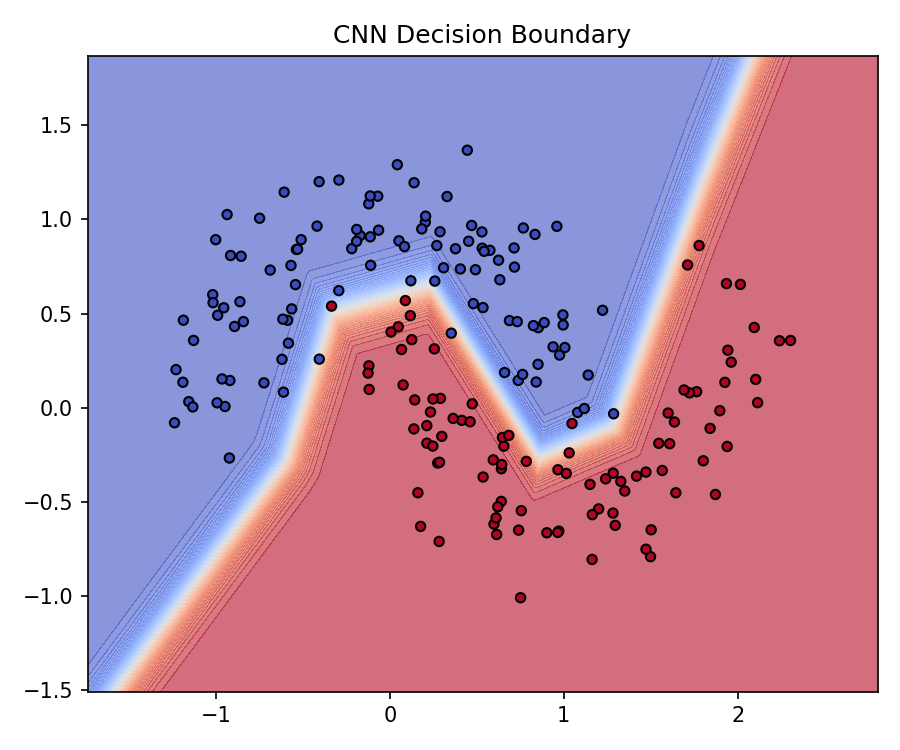
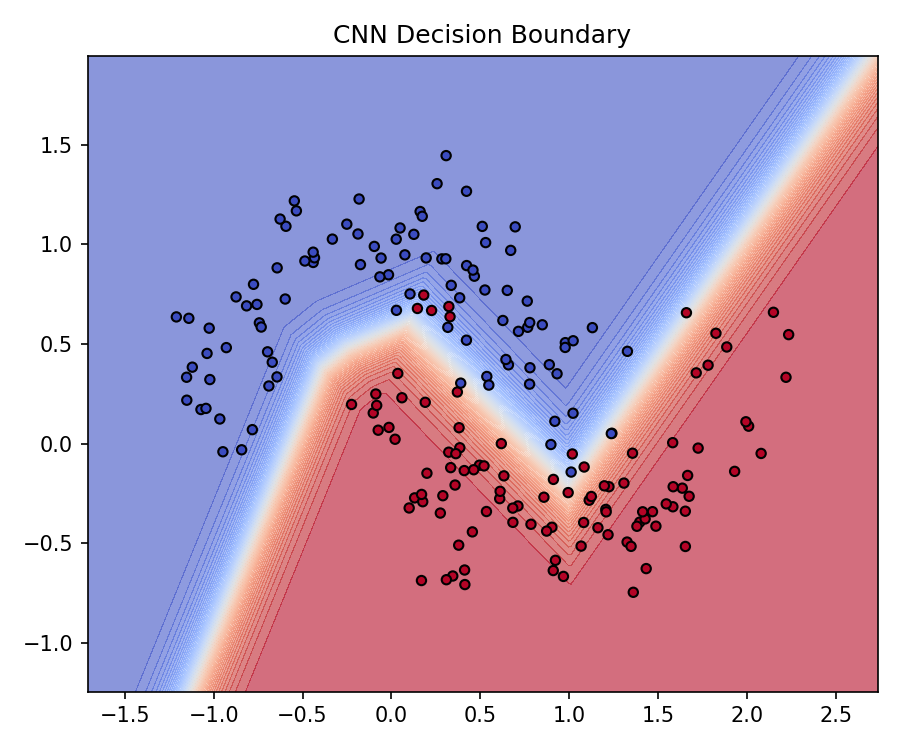
added seed while training

diff --git a/train.py b/train.py
@@ -10,14 +10,28 @@ from cnn_model import CNN
 device = torch.device("cuda" if torch.cuda.is_available() else "cpu")
 
 
-def train(model_type="mlp"):
+def set_seed(seed=42):
+    import random
+    import numpy as np
+    import torch
+
+    random.seed(seed)
+    np.random.seed(seed)
+    torch.manual_seed(seed)
+    torch.cuda.manual_seed_all(seed)
+
+    torch.backends.cudnn.deterministic = True
+    torch.backends.cudnn.benchmark = False
+
+
+def train(model_type="mlp", seed=42):
+    set_seed(seed)
+
     X_train, X_val, y_train, y_val = generate_dataset()
 
-    # Move data to GPU / CPU
     X_train, X_val = X_train.to(device), X_val.to(device)
     y_train, y_val = y_train.to(device), y_val.to(device)
 
-    # Select model
     if model_type == "mlp":
         model = MLP().to(device)
         save_path = "mlp_model.pth"
@@ -30,8 +44,8 @@ def train(model_type="mlp"):
     criterion = nn.BCELoss()
     optimizer = optim.Adam(
         model.parameters(),
-        lr=0.05,
-        weight_decay=1e-4
+        lr=0.01,
+        weight_decay=5e-4
     )
 
     train_losses, val_losses = [], []
@@ -66,5 +80,5 @@ def train(model_type="mlp"):
 
 
 if __name__ == "__main__":
-    train("mlp")
-    train("cnn")
+    train("mlp", seed=42)
+    train("cnn", seed=42)
